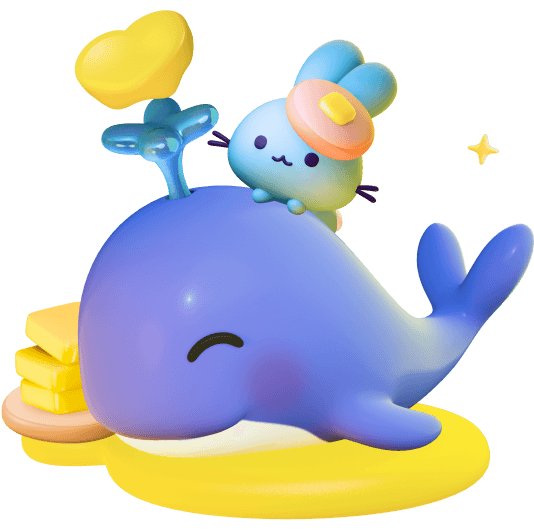
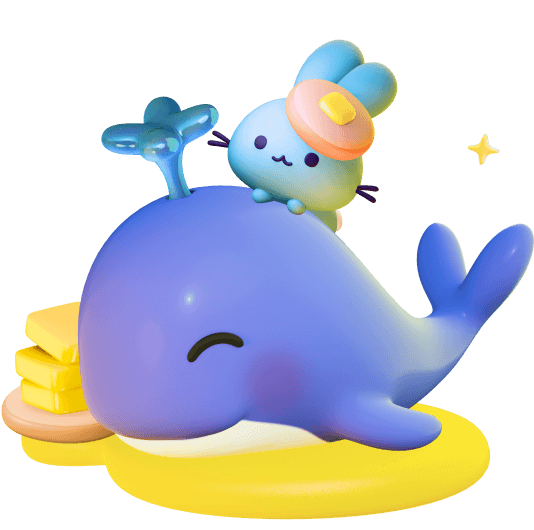
feat: Update animation

diff --git a/apps/web/src/views/TradingReward/components/TopTraders/Banner.tsx b/apps/web/src/views/TradingReward/components/TopTraders/Banner.tsx
@@ -28,13 +28,11 @@ const Decorations = styled(Box)`
   & :nth-child(1) {
     left: 0%;
     bottom: 25%;
-    animation: ${floatingStarsRight} 2.5s ease-in-out infinite;
   }
 
   & :nth-child(2) {
     left: 3%;
     bottom: 50%;
-    animation: ${floatingStarsLeft} 3s ease-in-out infinite;
   }
 
   & :nth-child(3) {
@@ -58,6 +56,13 @@ const Decorations = styled(Box)`
   & :nth-child(6) {
     right: 5%;
     bottom: 30%;
+    animation: ${floatingStarsRight} 2.5s ease-in-out infinite;
+  }
+
+  & :nth-child(7) {
+    top: 3%;
+    left: 57%;
+    transformY: (-50%);
     animation: ${floatingStarsRight} 2.5s ease-in-out infinite;
   }
 
@@ -87,6 +92,7 @@ const TopTradersBanner = () => {
         <img src="/images/trading-reward/top-traders-4.png" width="23px" height="23px" alt="top-traders-4" />
         <img src="/images/trading-reward/top-traders-5.png" width="21px" height="21px" alt="top-traders-5" />
         <img src="/images/trading-reward/top-traders-2.png" width="67px" height="67px" alt="top-traders-6" />
+        <img src="/images/trading-reward/top-traders-6.png" width="156px" height="124px" alt="top-traders-7" />
       </Decorations>
       <Flex
         position="relative"

diff --git a/apps/web/src/views/TradingReward/components/PairInfo.tsx b/apps/web/src/views/TradingReward/components/PairInfo.tsx
@@ -64,7 +64,7 @@ const PairInfo: React.FunctionComponent<React.PropsWithChildren<PairInfoProps>> 
               {lpSymbol}
             </Text>
           </Flex>
-          <Flex ml={['auto', 'auto', 'auto', 'auto', '0px']}>
+          <Flex ml={['auto', 'auto', 'auto', 'auto', '4px']}>
             <Flex>
               <V3FeeTag feeAmount={feeAmount} scale="sm" />
               <V3Tag ml="4px" scale="sm" />

diff --git a/apps/web/src/views/TradingReward/components/TopTraders/YourTradingReward/index.tsx b/apps/web/src/views/TradingReward/components/TopTraders/YourTradingReward/index.tsx
@@ -88,7 +88,6 @@ const Decorations = styled(Box)<{ showBackgroundColor: boolean }>`
   & :nth-child(1) {
     top: 8%;
     left: 0%;
-    animation: ${floatingStarsRight} 3.5s ease-in-out infinite;
   }
   & :nth-child(2) {
     bottom: 20%;
